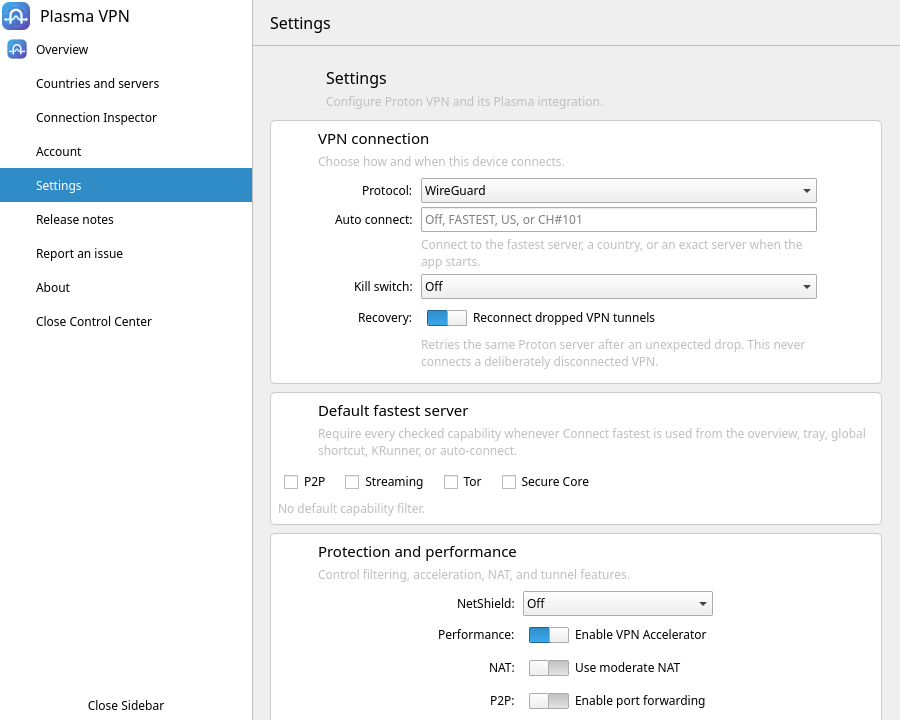
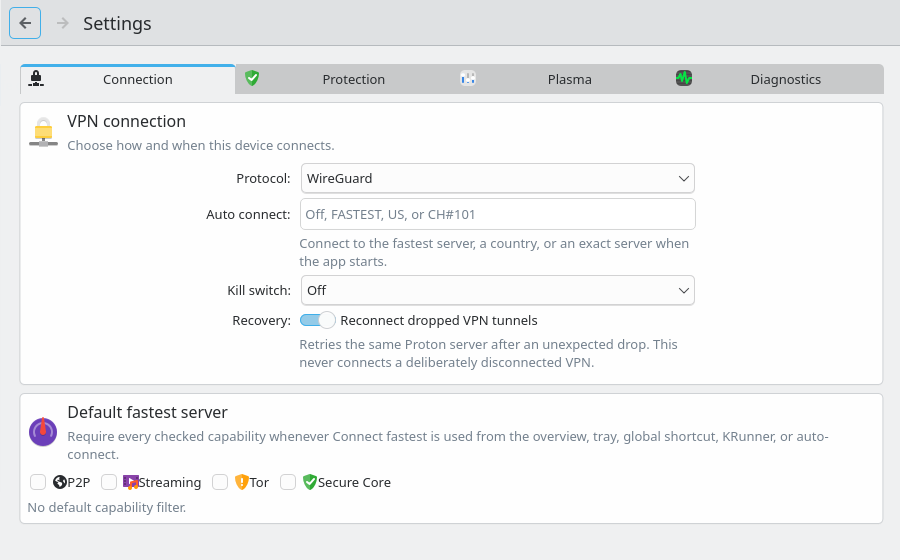
Group settings by user intent

diff --git a/qml/SettingsPage.qml b/qml/SettingsPage.qml
@@ -18,6 +18,18 @@ Kirigami.ScrollablePage {
     property var splitSettings: vpnController.splitTunneling
     property var customDns: vpnController.customDns
     property var packetCaptureFolderDialog: null
+    readonly property int selectedIntent: settingsIntentBar.currentIndex
+
+    component SettingsIntentTab: Controls.TabButton {
+        width: settingsIntentBar.width / 4
+        display: Controls.AbstractButton.TextUnderIcon
+    }
+
+    function showIntent(index) {
+        if (index >= 0 && index < settingsIntentBar.count) {
+            settingsIntentBar.currentIndex = index
+        }
+    }
 
     Component {
         id: packetCaptureFolderDialogComponent
@@ -99,12 +111,6 @@ Kirigami.ScrollablePage {
     ColumnLayout {
         spacing: Kirigami.Units.largeSpacing
 
-        PageHeader {
-            heading: qsTr("Settings")
-            description: qsTr("Configure Proton VPN and its Plasma integration.")
-            iconName: "settings-configure"
-        }
-
         Kirigami.InlineMessage {
             Layout.fillWidth: true
             visible: !vpnController.loggedIn
@@ -135,57 +141,106 @@ Kirigami.ScrollablePage {
             }
         }
 
-        VpnConnectionSettingsSection {
-            vpnController: page.controller
-            vpnSettings: page.vpnSettings
-            appSettings: page.integrationSettings
-            pageWidth: page.width
+        Controls.TabBar {
+            id: settingsIntentBar
+
+            objectName: "settingsIntentBar"
+            implicitWidth: Kirigami.Units.gridUnit * 24
+            Layout.fillWidth: true
+
+            SettingsIntentTab {
+                text: qsTr("Connection")
+                icon.name: "network-vpn"
+            }
+
+            SettingsIntentTab {
+                text: qsTr("Protection")
+                icon.name: "security-high"
+            }
+
+            SettingsIntentTab {
+                text: qsTr("Plasma")
+                icon.name: "preferences-desktop"
+            }
+
+            SettingsIntentTab {
+                text: qsTr("Diagnostics")
+                icon.name: "utilities-system-monitor"
+            }
         }
 
-        FastestSettingsSection {
-            appSettings: page.integrationSettings
-        }
+        StackLayout {
+            Layout.fillWidth: true
+            currentIndex: settingsIntentBar.currentIndex
 
-        ProtectionSettingsSection {
-            vpnController: page.controller
-            vpnSettings: page.vpnSettings
-            pageWidth: page.width
-        }
+            ColumnLayout {
+                spacing: Kirigami.Units.largeSpacing
 
-        CustomDnsSettingsSection {
-            vpnController: page.controller
-            vpnSettings: page.vpnSettings
-            customDns: page.customDns
-            pageWidth: page.width
-            onManageRequested: applicationWindow().pushCustomDns()
-        }
+                VpnConnectionSettingsSection {
+                    vpnController: page.controller
+                    vpnSettings: page.vpnSettings
+                    appSettings: page.integrationSettings
+                    pageWidth: page.width
+                }
 
-        SplitTunnelingSettingsSection {
-            vpnController: page.controller
-            vpnSettings: page.vpnSettings
-            splitSettings: page.splitSettings
-            pageWidth: page.width
-            onManageRequested: applicationWindow().pushSplitTunneling()
-        }
+                FastestSettingsSection {
+                    appSettings: page.integrationSettings
+                }
+            }
 
-        PrivacySettingsSection {
-            vpnController: page.controller
-            vpnSettings: page.vpnSettings
-            appSettings: page.integrationSettings
-            pageWidth: page.width
-            onBrowseRequested: page.openPacketCaptureFolderDialog()
-        }
+            ColumnLayout {
+                spacing: Kirigami.Units.largeSpacing
 
-        PlasmaIntegrationSettingsSection {
-            appSettings: page.integrationSettings
-            pageWidth: page.width
-        }
+                ProtectionSettingsSection {
+                    vpnController: page.controller
+                    vpnSettings: page.vpnSettings
+                    pageWidth: page.width
+                }
 
-        UpdateSettingsSection {
-            updateChannel: page.packageChannel
-            onConfirmationRequested: function(enableBeta) {
-                updateChannelDialog.enableBeta = enableBeta
-                updateChannelDialog.open()
+                CustomDnsSettingsSection {
+                    vpnController: page.controller
+                    vpnSettings: page.vpnSettings
+                    customDns: page.customDns
+                    pageWidth: page.width
+                    onManageRequested: applicationWindow().pushCustomDns()
+                }
+
+                SplitTunnelingSettingsSection {
+                    vpnController: page.controller
+                    vpnSettings: page.vpnSettings
+                    splitSettings: page.splitSettings
+                    pageWidth: page.width
+                    onManageRequested: applicationWindow().pushSplitTunneling()
+                }
+            }
+
+            ColumnLayout {
+                spacing: Kirigami.Units.largeSpacing
+
+                PlasmaIntegrationSettingsSection {
+                    appSettings: page.integrationSettings
+                    pageWidth: page.width
+                }
+            }
+
+            ColumnLayout {
+                spacing: Kirigami.Units.largeSpacing
+
+                PrivacySettingsSection {
+                    vpnController: page.controller
+                    vpnSettings: page.vpnSettings
+                    appSettings: page.integrationSettings
+                    pageWidth: page.width
+                    onBrowseRequested: page.openPacketCaptureFolderDialog()
+                }
+
+                UpdateSettingsSection {
+                    updateChannel: page.packageChannel
+                    onConfirmationRequested: function(enableBeta) {
+                        updateChannelDialog.enableBeta = enableBeta
+                        updateChannelDialog.open()
+                    }
+                }
             }
         }
     }

diff --git a/qml/Main.qml b/qml/Main.qml
@@ -203,6 +203,12 @@ Kirigami.ApplicationWindow {
     Component.onCompleted: {
         if (initialPageName === "settings") {
             root.showSettings()
+        } else if (initialPageName === "settings-protection") {
+            root.showSettings().showIntent(1)
+        } else if (initialPageName === "settings-plasma") {
+            root.showSettings().showIntent(2)
+        } else if (initialPageName === "settings-diagnostics") {
+            root.showSettings().showIntent(3)
         } else if (initialPageName === "locations") {
             root.showLocations()
         } else if (initialPageName === "inspector") {
@@ -519,6 +525,14 @@ Kirigami.ApplicationWindow {
                         || vpnController.settings.busy) {
                     return
                 }
+                const settingsPage = pageStack.currentItem
+                settingsPage.showIntent(1)
+                if (settingsPage.selectedIntent !== 1) {
+                    stop()
+                    console.error("settings-route-smoke: unable to select Protection intent")
+                    Qt.exit(2)
+                    return
+                }
                 root.settingsRouteExpectedModerateNat =
                     !vpnController.settings.moderateNat
                 vpnController.updateSetting(
@@ -536,6 +550,8 @@ Kirigami.ApplicationWindow {
                          root.currentSection)
             console.info("settings-route-smoke: stack depth",
                          pageStack.depth)
+            console.info("settings-route-smoke: selected intent",
+                         pageStack.currentItem.selectedIntent)
         }
     }
 

diff --git a/qml/ReleaseNotesPage.qml b/qml/ReleaseNotesPage.qml
@@ -85,6 +85,7 @@ Kirigami.ScrollablePage {
                     qsTr("Overview visualizes this device, its encrypted tunnel, and the VPN destination while keeping one obvious connection action."),
                     qsTr("Exact server, protocol, Secure Core entry, and forwarded-port facts now appear as compact icon-led controls on Connection; selecting them opens the relevant settings, Inspector, or copy action."),
                     qsTr("Server discovery now leads with one graphical fastest-suitable action, keeps selected requirements visible, and uses native icon-led checkboxes before country and exact-server browsing."),
+                    qsTr("Settings now groups controls into icon-led Connection, Protection, Plasma, and Diagnostics intents and preserves the selected intent after a setting is saved."),
                     qsTr("Release notes are grouped into short, scannable changes, while earlier history stays collapsed until requested.")
                 ]
             }

diff --git a/docs/ROADMAP.md b/docs/ROADMAP.md
@@ -43,13 +43,11 @@ The implementation constraints are:
 
 ### Delivery sequence
 
-1. Group Settings by user intent and disclose uncommon choices beside the
-   setting they refine; keep applied changes on the same page.
-2. Refine sign-in, two-factor, security-key, Secret Service approval, error,
+1. Refine sign-in, two-factor, security-key, Secret Service approval, error,
    and recovery presentation without altering their established sequencing.
-3. Treat Connection Inspector, release history, support status, and technical
+2. Treat Connection Inspector, release history, support status, and technical
    details as on-demand depth rather than primary navigation competition.
-4. Verify compact and wide windows, keyboard-only use, screen-reader names,
+3. Verify compact and wide windows, keyboard-only use, screen-reader names,
    1.5x text, right-to-left layout, light and dark schemes, high contrast, and
    reduced motion before repeating the full release battery.
 
@@ -62,7 +60,6 @@ replace them.
 
 | Current surface | What already works | Presentation debt to resolve |
 | --- | --- | --- |
-| Settings | Complete native controls grouped into focused components | Lead with common outcomes and reveal exceptions locally instead of showing every choice with equal emphasis |
 | Sign in and Account | Correct startup routing and explicit multi-step authentication | Present only the active authentication step while keeping Secret Service waits and recovery unmistakable |
 | Connection Inspector | Bounded, read-only, on-demand detail | Open it from connection context and secondary navigation rather than competing with daily connection tasks |
 | Release Notes, About, and reporting | Attribution, history, support boundary, and project status remain reachable | Place project information in a secondary destination; keep disabled reporting visibly unavailable without making it a primary task |

diff --git a/docs/VISUAL-SYSTEM.md b/docs/VISUAL-SYSTEM.md
@@ -41,6 +41,12 @@ checkboxes keep P2P, Streaming, Tor, and Secure Core requirements explicit;
 search and ordinary Plasma list rows then provide country, group, pin, load,
 and exact-server depth.
 
+Settings uses one native, keyboard-accessible tab bar organized by user intent:
+Connection, Protection, Plasma, and Diagnostics. Icon-led tabs replace the
+undifferentiated full-page scroll while leaving the existing controls, active
+warnings, validation, and asynchronous save behavior in place. Selecting or
+saving a setting must not reset the chosen intent or navigate away.
+
 Revealed content must not unexpectedly move the user to another page, reorder
 unrelated controls, or require memorizing a hidden choice. Preserve focus when
 content expands and give disclosure controls explicit accessible names and
@@ -121,4 +127,6 @@ only the deterministic demo adapter to enter its simulated connected state
 before rendering (for example, `overview-connected` or
 `inspector-connected`). Set `PROTON_KDE_CAPTURE_COLOR_SCHEME` to an installed
 Plasma color-scheme name such as `BreezeDark` when reviewing a non-default
-theme. Capture mode cannot create or alter a real VPN connection.
+theme. The `settings-protection`, `settings-plasma`, and
+`settings-diagnostics` page names select each non-default Settings intent for
+visual review. Capture mode cannot create or alter a real VPN connection.

diff --git a/CHANGELOG.md b/CHANGELOG.md
@@ -25,6 +25,9 @@ All notable user-visible changes are recorded here. The project follows
   active capability requirements visible, and present the existing P2P,
   Streaming, Tor, and Secure Core requirements as native icon-led checkboxes
   before country, location, and exact-server browsing.
+- Group Settings into native icon-led Connection, Protection, Plasma, and
+  Diagnostics intents instead of presenting every control in one long scroll.
+  Preserve the selected intent across asynchronous setting saves.
 - Add an on-demand Connection Inspector for live server capabilities,
   protection configuration, and local runtime state using only existing
   non-sensitive Core snapshots.
